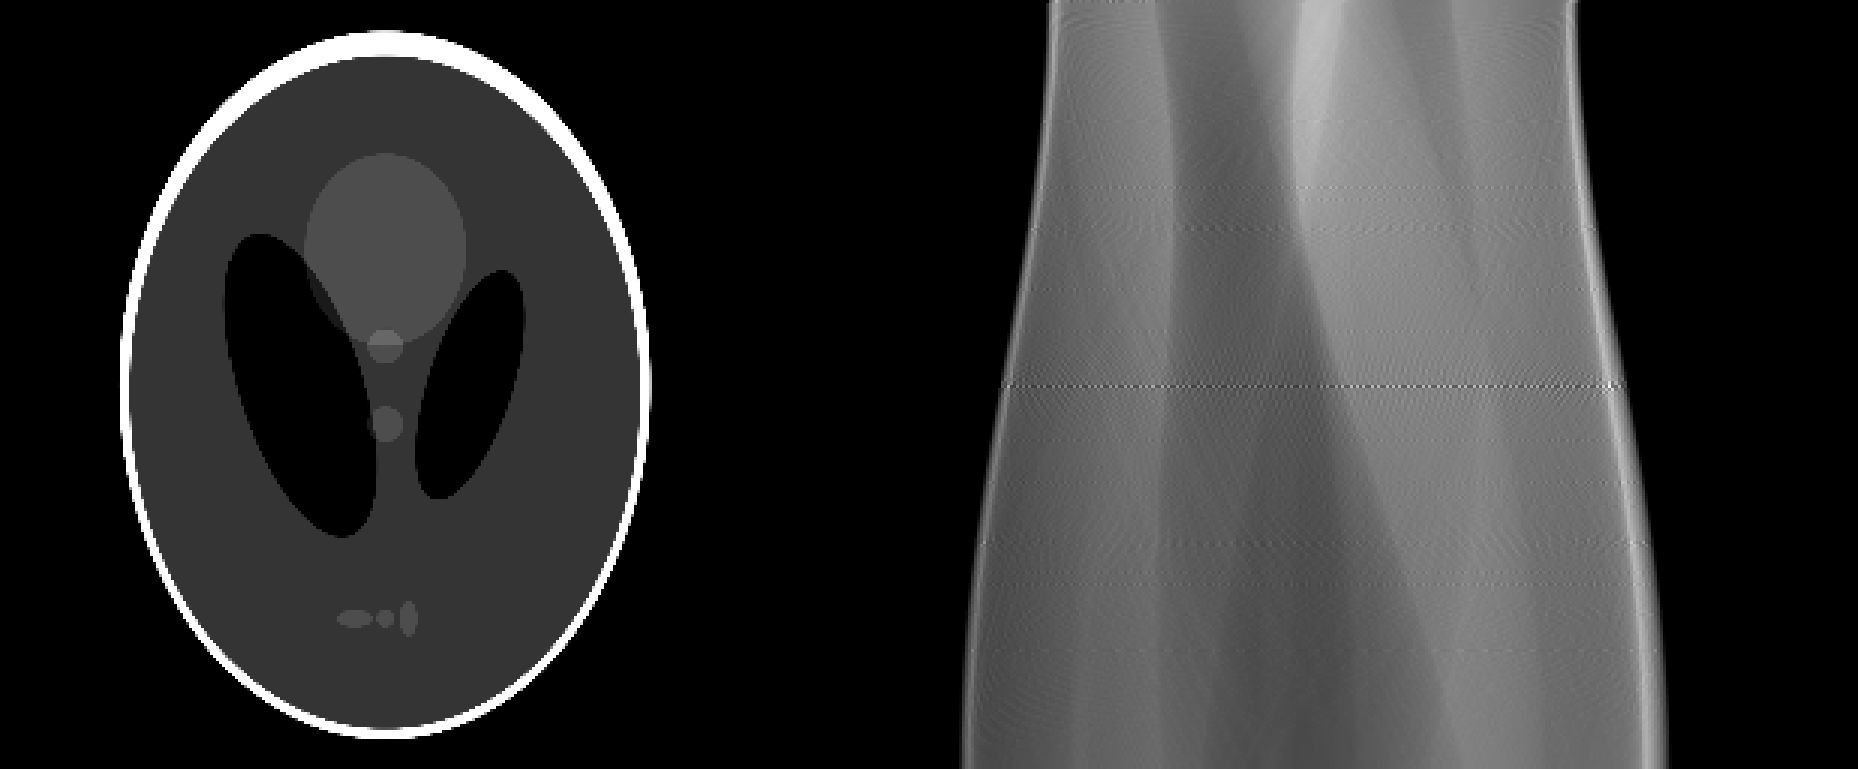
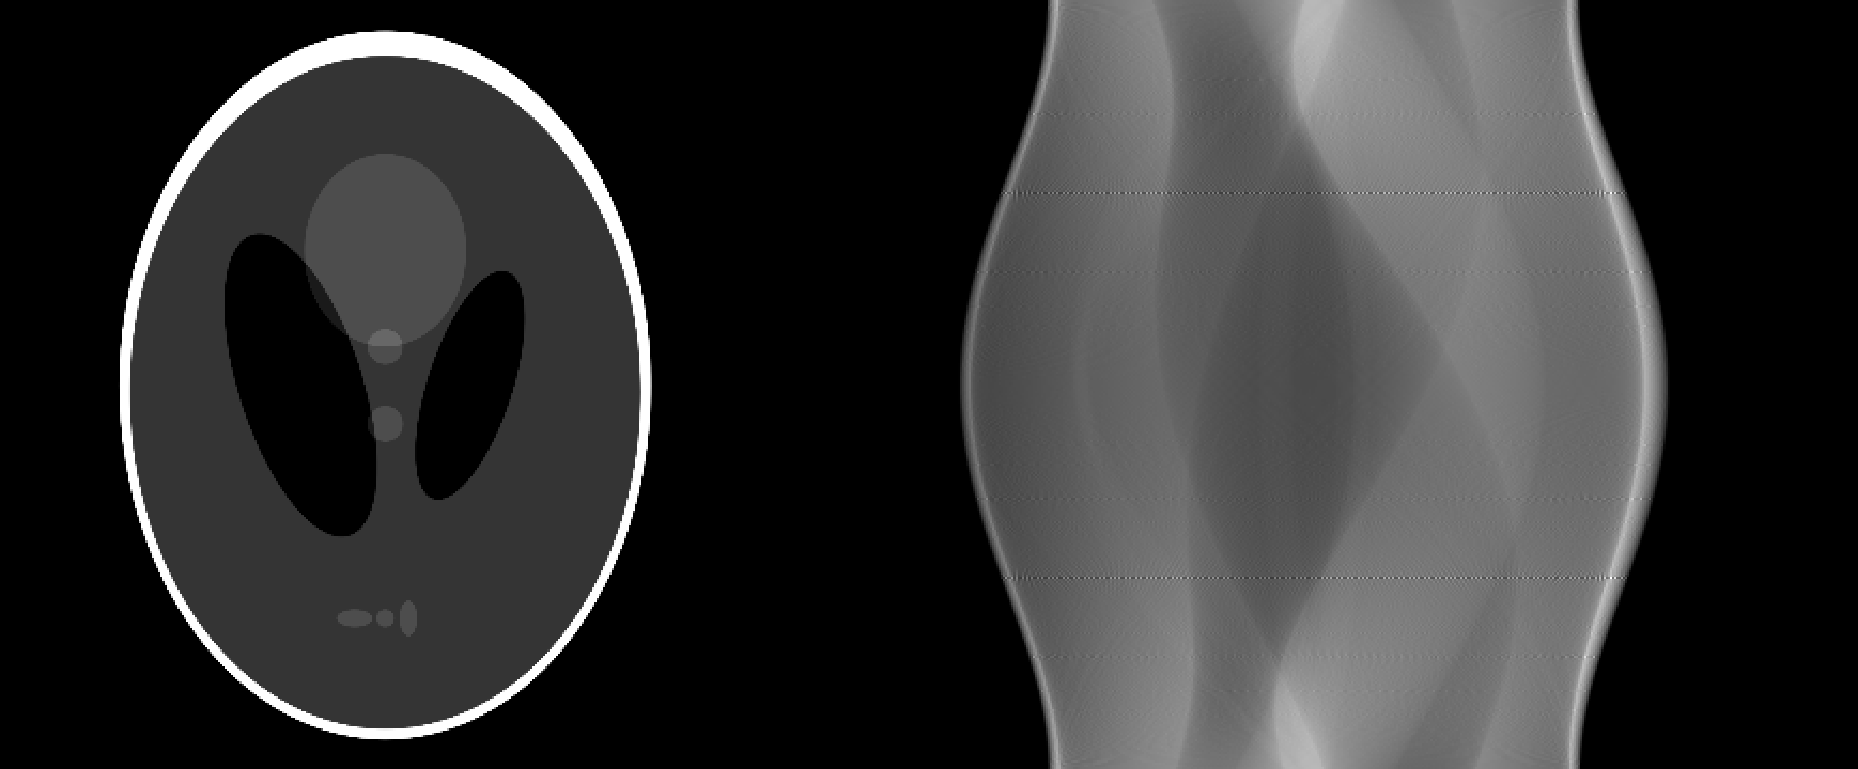
Corrected angle range

diff --git a/src/radon.cpp b/src/radon.cpp
@@ -1,7 +1,7 @@
 #include "radon.hpp"
 
 cv::Mat cv::sinogram(const cv::Mat& src, const int theta_bin){
-  const int p_bin = sqrt(pow(src.rows, 2) + pow(src.cols, 2));
+  const int p_bin = round(sqrt(pow(src.rows, 2) + pow(src.cols, 2)));
   cv::Mat dst(theta_bin, p_bin, CV_64F, cv::Scalar(0));
   cv::Mat copy;
   src.copyTo(copy);
@@ -12,26 +12,26 @@ cv::Mat cv::sinogram(const cv::Mat& src, const int theta_bin){
   for (auto it = map.begin(); it != map.end(); it++)
     it->resize(src.rows); // y
 
-  const Coord origin = {src.cols/2.0, src.rows/2.0};
+  const Coord origin = {floor(src.cols/2.0), floor(src.rows/2.0)};
   for (int x = 0; x < map.size(); x++){
     for (int y = 0; y < map[x].size(); y++){
       Coord cartesian = {x - origin.first, origin.second - y};
       float r = sqrt(pow(cartesian.first, 2) + pow(cartesian.second, 2));
-      float theta = 0.0;
+      float theta;
       theta = atan2(cartesian.second, cartesian.first);
       Coord polar = {r, theta};
       map[x][y] = polar;
     }
   }
 
-  const int p_mid = p_bin/2;
-  const float d_theta = M_PI / theta_bin / 2;
+  const float p_mid = p_bin / 2;
+  const float d_theta = M_PI / theta_bin;
   for (int i = 0; i < theta_bin; i++){
     for (int x = 0; x < map.size(); x++){
       for (int y = 0; y < map[x].size(); y++){
         float x_cart = map[x][y].first * cos(map[x][y].second);
-        int bin_idx = floor(x_cart + p_mid);
-        dst.at<double>(i, bin_idx) += copy.at<double>(y,x);
+        int bin_idx = round(x_cart + p_mid);
+        dst.at<double>(i,bin_idx) += copy.at<double>(y,x);
         map[x][y].second -= d_theta;
       }
     }
@@ -40,7 +40,8 @@ cv::Mat cv::sinogram(const cv::Mat& src, const int theta_bin){
   double min, max;
   cv::minMaxLoc(dst, &min, &max);
   dst = dst/max;
-  int scale = 1;
+  double scale = 1;
+  bool offset = false;
   switch(src.type()){
     case CV_8U : {
       scale = 255;
@@ -48,18 +49,21 @@ cv::Mat cv::sinogram(const cv::Mat& src, const int theta_bin){
     }
     case CV_8S : {
       scale = 127;
+      offset = true;
       break;
     }
     case CV_16U : {
-      scale = 256 * 256 - 1;
+      scale = pow(256, 2) - 1;
       break;
     }
     case CV_16S : {
-      scale = 256 * 256 / - 1;
+      scale = pow(256, 2) / 2 - 1;
+      offset = true;
       break;
     }
     case CV_32S : {
-      scale = 256 * 256 * 256 - 1;
+      scale = pow(256, 4) / 2 - 1;
+      offset = true;
       break;
     }
     case CV_USRTYPE1 : {
@@ -67,7 +71,9 @@ cv::Mat cv::sinogram(const cv::Mat& src, const int theta_bin){
       break;
     }
   }
-  dst = dst * scale;
+  dst = dst * scale - offset;
+  if (offset)
+    dst = dst - offset;
   dst.convertTo(dst, src.type());
   return dst;
 }

diff --git a/src/main.cpp b/src/main.cpp
@@ -9,8 +9,8 @@ int main(int argc, char** argv){
   }
   std::string filename = argv[1];
   cv::Mat img = cv::imread(filename, CV_LOAD_IMAGE_GRAYSCALE);
-  cv::resize(img, img, cv::Size(256,256));
-  cv::Mat rad = cv::sinogram(img, 256);
+  cv::resize(img, img, cv::Size(360,360));
+  cv::Mat rad = cv::sinogram(img, 360);
 
   cv::Mat compare(img.rows * 2, img.cols * 2, img.type());
   cv::hconcat(img, rad, compare);
